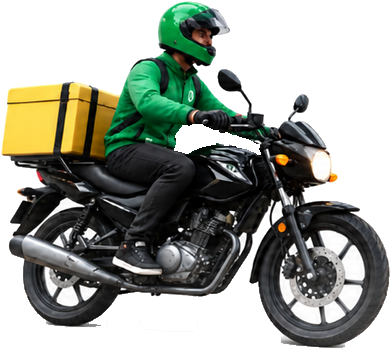
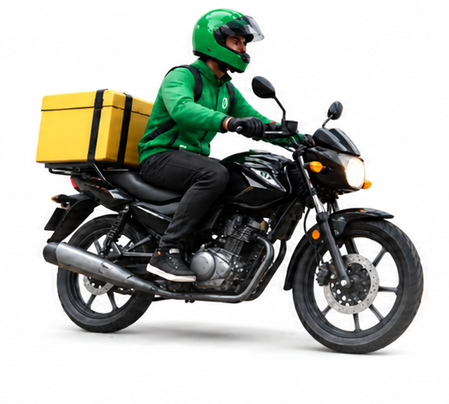
style(customer-pwa): update rider image and auth screen styling

diff --git a/customer-pwa/src/styles/app.css b/customer-pwa/src/styles/app.css
@@ -836,15 +836,9 @@ button.home-status:disabled {
   height: 100%;
   object-fit: contain;
   object-position: center bottom;
-  mix-blend-mode: darken;
-  -webkit-mask-image: radial-gradient(ellipse 86% 78% at 50% 46%, #000 58%, transparent 86%);
-  mask-image: radial-gradient(ellipse 86% 78% at 50% 46%, #000 58%, transparent 86%);
 }
 
 [data-theme="dark"] .welcome-hero img {
-  mix-blend-mode: normal;
-  -webkit-mask-image: radial-gradient(ellipse 78% 74% at 50% 42%, #000 48%, transparent 78%);
-  mask-image: radial-gradient(ellipse 78% 74% at 50% 42%, #000 48%, transparent 78%);
 }
 
 .welcome-fade {

diff --git a/customer-pwa/src/pages/WelcomePage.tsx b/customer-pwa/src/pages/WelcomePage.tsx
@@ -1,4 +1,4 @@
-import motorcycle from '../assets/riders-motorcycle.png';
+import motorcycle from '../assets/rider-cutout.png';
 import { BrandLogo } from '../components/BrandLogo';
 import { Button } from '../components/Button';
 

diff --git a/customer-pwa/src/components/BrandMark.tsx b/customer-pwa/src/components/BrandMark.tsx
@@ -1,4 +1,4 @@
-import riderImage from '../assets/rider-image.png';
+import riderImage from '../assets/rider-cutout.png';
 import { BrandLogo } from './BrandLogo';
 
 export function BrandMark() {
